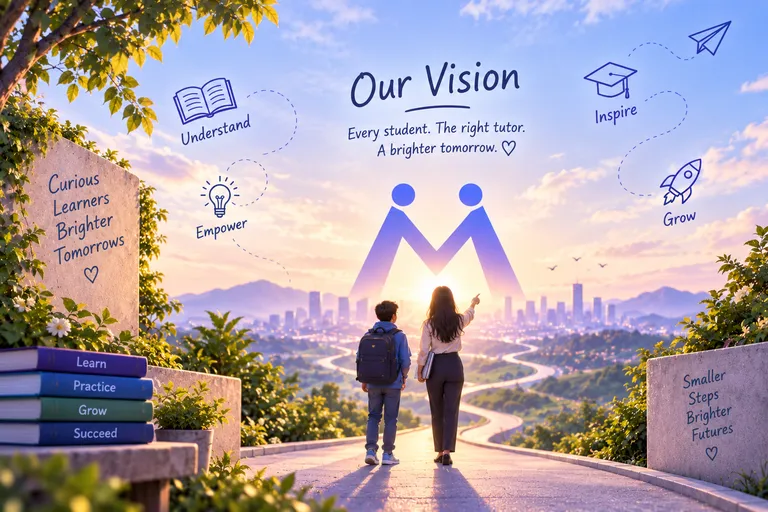
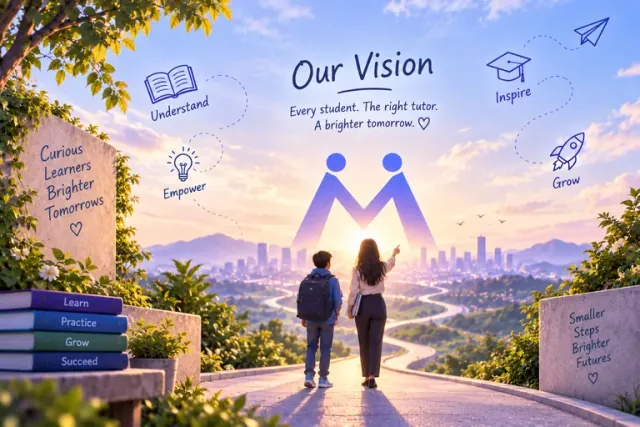
update: Page load optimization for mobile...again and again

diff --git a/client/src/pages/HomePage.jsx b/client/src/pages/HomePage.jsx
@@ -54,67 +54,67 @@ export default function HomePage() {
       <HeroSection />
 
       {/* Below-the-fold sections: Deferred and code-split independently for ultra-fast initial load */}
-      <DeferredSection id="vision" minHeight="650px" rootMargin="800px 0px">
+      <DeferredSection id="vision" minHeight="650px" rootMargin="350px 0px">
         <Suspense fallback={<div style={{ minHeight: '650px' }} />}>
           <VisionSection />
         </Suspense>
       </DeferredSection>
 
-      <DeferredSection id="pain" minHeight="650px" rootMargin="800px 0px">
+      <DeferredSection id="pain" minHeight="650px" rootMargin="350px 0px">
         <Suspense fallback={<div style={{ minHeight: '650px' }} />}>
           <PainPointsSection />
         </Suspense>
       </DeferredSection>
 
-      <DeferredSection id="why" minHeight="650px" rootMargin="800px 0px">
+      <DeferredSection id="why" minHeight="650px" rootMargin="350px 0px">
         <Suspense fallback={<div style={{ minHeight: '650px' }} />}>
           <WhySection />
         </Suspense>
       </DeferredSection>
 
-      <DeferredSection id="services" minHeight="650px" rootMargin="800px 0px">
+      <DeferredSection id="services" minHeight="650px" rootMargin="350px 0px">
         <Suspense fallback={<div style={{ minHeight: '650px' }} />}>
           <ServicesSection />
         </Suspense>
       </DeferredSection>
 
-      <DeferredSection id="avsar" minHeight="550px" rootMargin="800px 0px">
+      <DeferredSection id="avsar" minHeight="550px" rootMargin="350px 0px">
         <Suspense fallback={<div style={{ minHeight: '550px' }} />}>
           <AvsarSection />
         </Suspense>
       </DeferredSection>
 
-      <DeferredSection id="organogram" minHeight="550px" rootMargin="800px 0px">
+      <DeferredSection id="organogram" minHeight="550px" rootMargin="350px 0px">
         <Suspense fallback={<div style={{ minHeight: '550px' }} />}>
           <OrganogramSection />
         </Suspense>
       </DeferredSection>
 
-      <DeferredSection id="showcase" minHeight="650px" rootMargin="800px 0px">
+      <DeferredSection id="showcase" minHeight="650px" rootMargin="350px 0px">
         <Suspense fallback={<div style={{ minHeight: '650px' }} />}>
           <ShowcaseSection />
         </Suspense>
       </DeferredSection>
 
-      <DeferredSection id="testimonials" minHeight="500px" rootMargin="800px 0px">
+      <DeferredSection id="testimonials" minHeight="500px" rootMargin="350px 0px">
         <Suspense fallback={<div style={{ minHeight: '500px' }} />}>
           <TestimonialsSection />
         </Suspense>
       </DeferredSection>
 
-      <DeferredSection id="blogs" minHeight="500px" rootMargin="800px 0px">
+      <DeferredSection id="blogs" minHeight="500px" rootMargin="350px 0px">
         <Suspense fallback={<div style={{ minHeight: '500px' }} />}>
           <BlogsPreview />
         </Suspense>
       </DeferredSection>
 
-      <DeferredSection id="contact-forms" minHeight="500px" rootMargin="800px 0px">
+      <DeferredSection id="contact-forms" minHeight="500px" rootMargin="350px 0px">
         <Suspense fallback={<div style={{ minHeight: '500px' }} />}>
           <FormsSection />
         </Suspense>
       </DeferredSection>
 
-      <DeferredSection id="contact-section" minHeight="500px" rootMargin="800px 0px">
+      <DeferredSection id="contact-section" minHeight="500px" rootMargin="350px 0px">
         <Suspense fallback={<div style={{ minHeight: '500px' }} />}>
           <ContactSection />
         </Suspense>

diff --git a/client/src/components/home/VisionSection.jsx b/client/src/components/home/VisionSection.jsx
@@ -227,14 +227,14 @@ export default function VisionSection() {
                     src={`${import.meta.env.BASE_URL}Our vission-mobile.webp`}
                     alt="Vision Illustration"
                     loading="lazy"
-                    width={768}
-                    height={432}
+                    width={640}
+                    height={427}
                     style={{
                       width: '100%',
                       height: '100%',
                       objectFit: 'cover',
                       objectPosition: 'center 25%',
-                      aspectRatio: '1672 / 941',
+                      aspectRatio: '640 / 427',
                     }}
                   />
                 </picture>
@@ -428,14 +428,14 @@ export default function VisionSection() {
                     src={`${import.meta.env.BASE_URL}Our mission-mobile.webp`}
                     alt="Mission Illustration"
                     loading="lazy"
-                    width={768}
-                    height={512}
+                    width={640}
+                    height={427}
                     style={{
                       width: '100%',
                       height: '100%',
                       objectFit: 'cover',
                       objectPosition: 'center 25%',
-                      aspectRatio: '1536 / 1024',
+                      aspectRatio: '640 / 427',
                     }}
                   />
                 </picture>

diff --git a/client/src/components/home/HeroSection.jsx b/client/src/components/home/HeroSection.jsx
@@ -820,12 +820,12 @@ export default function HeroSection() {
               alt="" 
               loading="lazy"
               decoding="async"
-              width="800"
-              height="533"
+              width="600"
+              height="400"
               style={{
                 width: '100%',
                 height: '100%',
-                aspectRatio: '800 / 533',
+                aspectRatio: '600 / 400',
                 objectFit: 'contain',
                 transform: 'translate(0%, -10%)',
                 opacity: 0.5,
